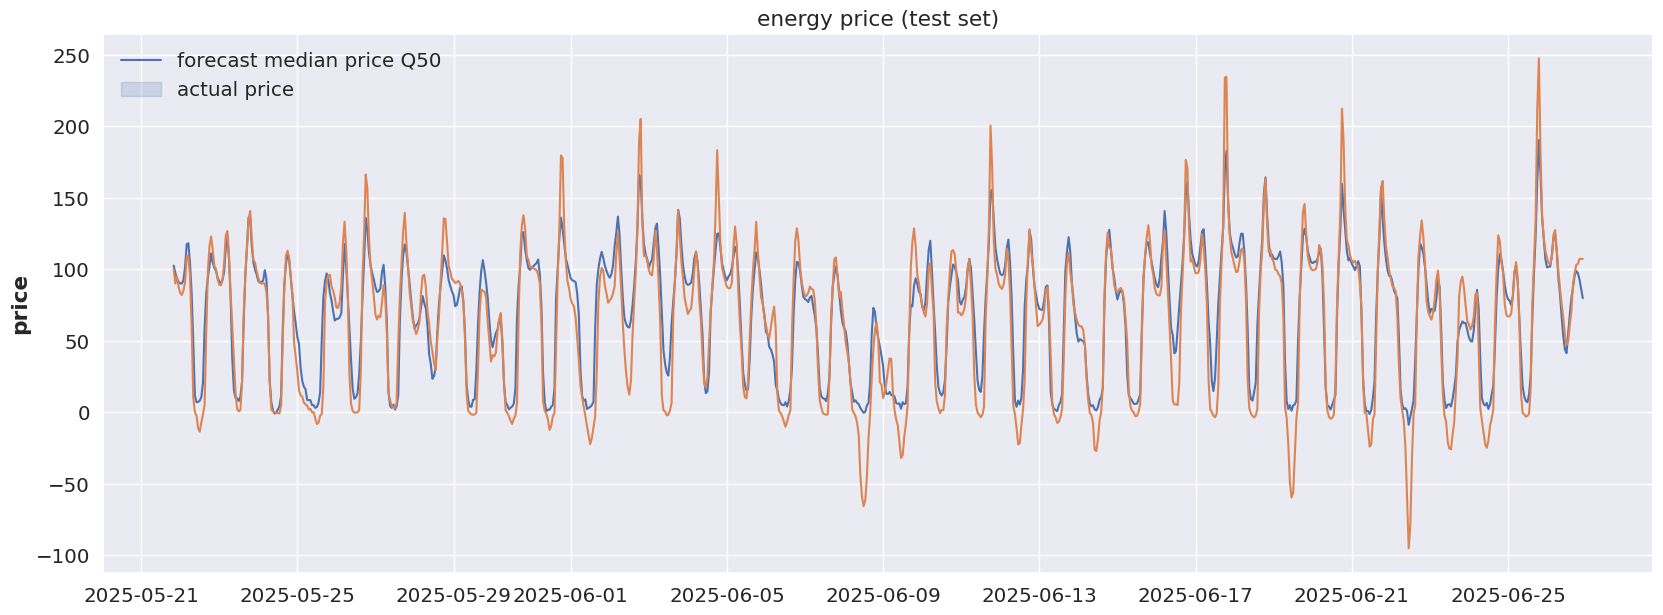
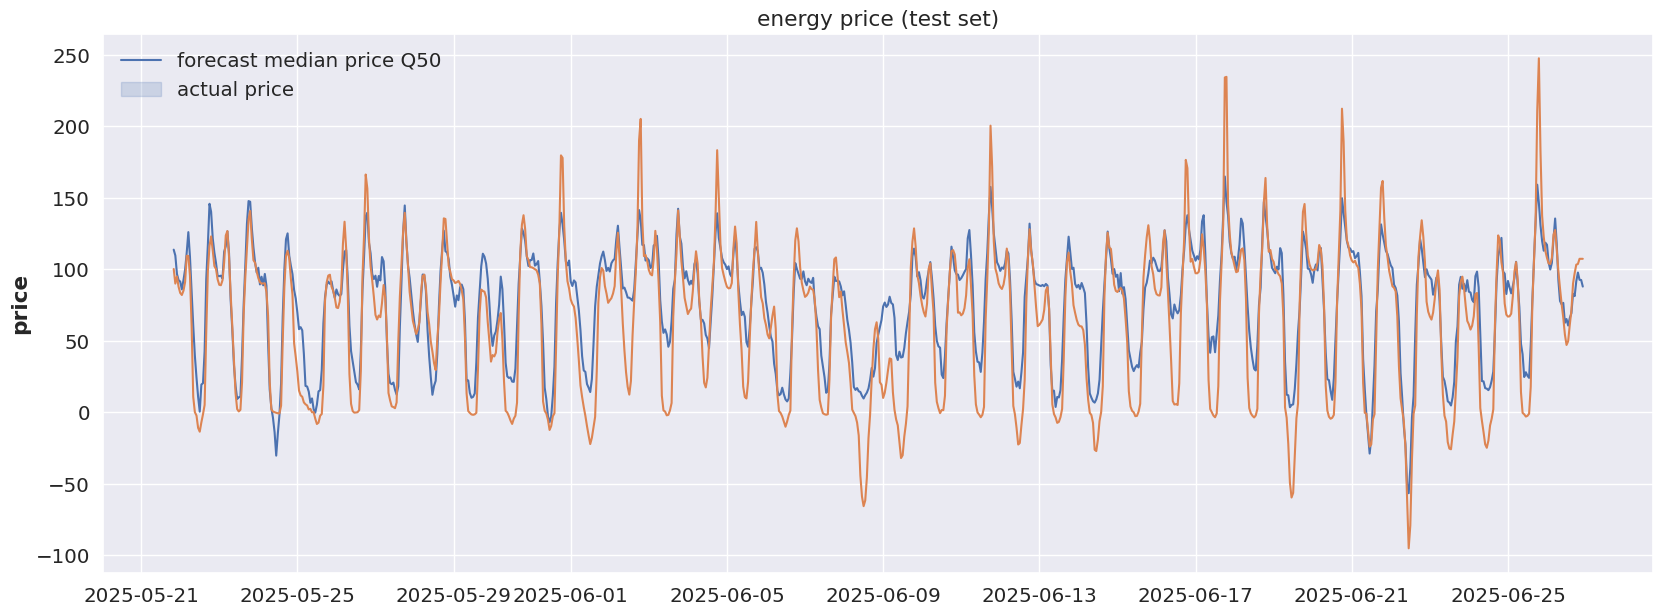
Plot

diff --git a/Price_forecasting/README.md b/Price_forecasting/README.md
@@ -11,8 +11,14 @@ This project focuses on forecasting German day-ahead energy prices using the DAR
 
 ### Results
 
+- TFT
+
 ![Alt text](1.png)
 
+- Transformer
+
 ![Alt text](2.png)
+
+- NBEATS
 
 ![Alt text](3.png)
